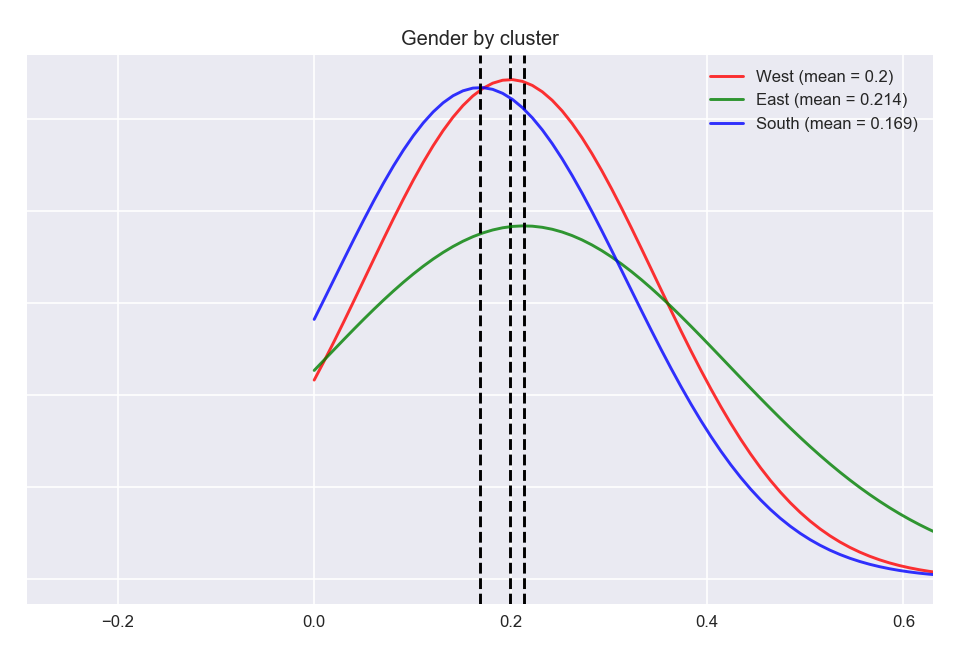
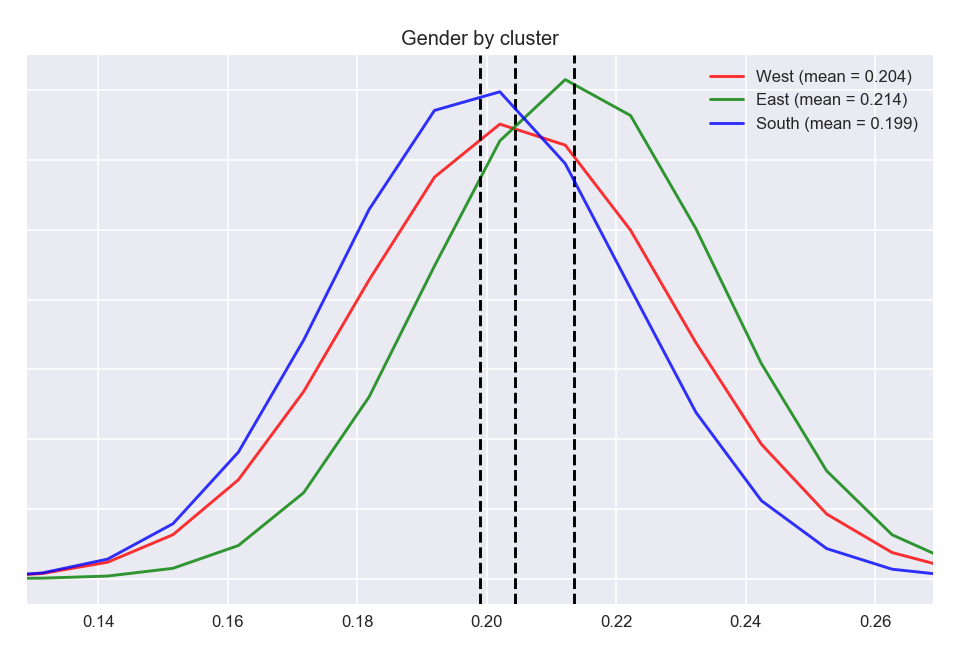
README etc.

diff --git a/README.md b/README.md
@@ -81,12 +81,6 @@ The plots below are illustrative though maybe not particularly enlightening. I i
 
 *p*-values from an independent *t*-test with unequal variances for gender preferences between clusters show all significant differences. We expect that the South cluster would be more significantly different from East than West based on the professional results. 
 
-|       |    West |    East |   South |
-|-------|---------|---------|---------|
-| West  | 0       | 0.07638 | 0.03944 |
-| East  | 0.07638 | 0       | 0.13219 |
-| South | 0.03944 | 0.13219 | 0       |
-
 We would expect small *p*-values because the sample size is large, even if the data was incomplete.
 
 #### Without bootstrapping
@@ -95,13 +89,7 @@ We would expect small *p*-values because the sample size is large, even if the d
   <img src="images/gender_distributions.png" width = 600 height = 400>
 </p>
 
-The *p*-values from an independent *t*-test with unequal variances for gender preferences between clusters show no significant differences.
-
-|       |    West |    East |   South |
-|-------|---------|---------|---------|
-| West  | 0       | 0.83088 | 0.48091 |
-| East  | 0.83088 | 0       | 0.53105 |
-| South | 0.48091 | 0.53105 | 0       |
+The *p*-values from an independent *t*-test with unequal variances for gender preferences between clusters show all significant differences.
 
 > Sorry, Mike!
 
